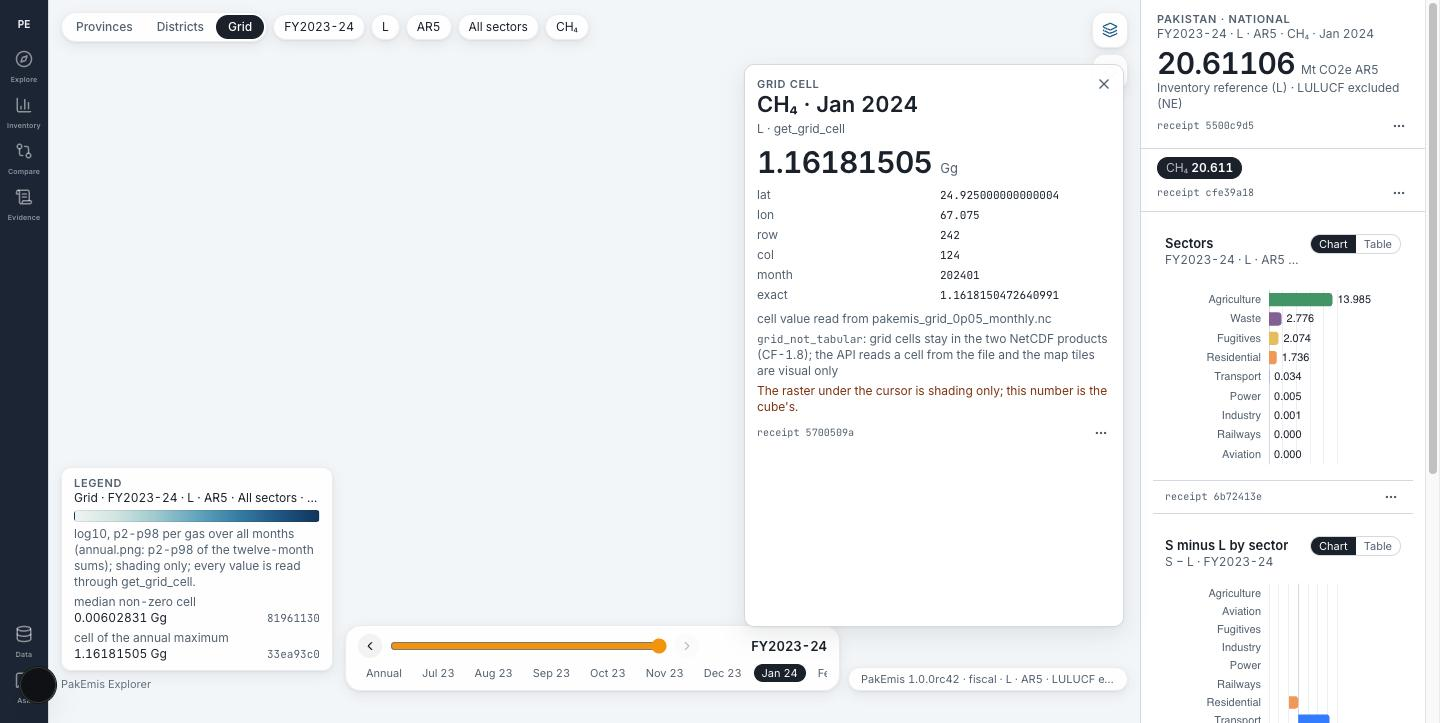
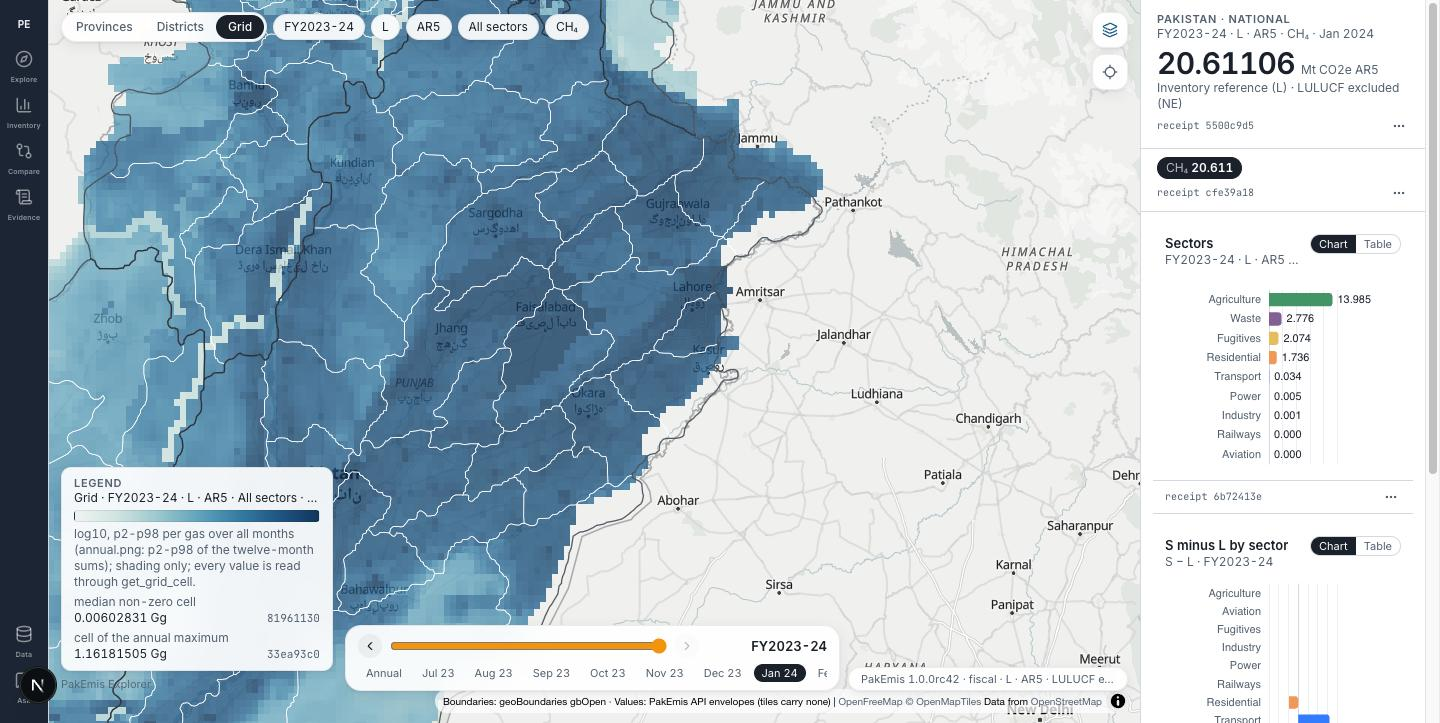
Grid raster shows: TILES.json keys its frames raster/<config>/<gas>/<frame>.png and rasterFile looked them up unprefixed; verified screenshots (adm1 hover, adm2 hatch, AR6 refusal, refusal year, raster, grid cell, district card)

diff --git a/web/src/components/map/tiles.ts b/web/src/components/map/tiles.ts
@@ -27,10 +27,13 @@ export function useBboxes() {
 /** The frame name of a raster file for (config, gas, month|annual) as TILES.json lists it, or null if the builder wrote none. */
 export function rasterFile(info: RasterInfo | undefined, config: string, gas: string, month: string | null): string | null {
   if (!info) return null;
-  const frames = Object.keys(info.files);
+  // TILES.json keys the frames as `raster/<config>/<gas>/<frame>.png` (relative to the tiles
+  // folder); the map builds `${TILES}/raster/<name>`, so the prefix is stripped here.
+  const strip = (f: string) => f.replace(/^raster\//, "");
+  const frames = Object.keys(info.files).map(strip);
   const annual = frames.find((f) => f.startsWith(`${config}/${gas}/`) && !/\/\d{6}\.png$/.test(f));
   const name = month ? `${config}/${gas}/${month}.png` : annual;
-  return name && info.files[name] ? name : null;
+  return name && frames.includes(name) ? name : null;
 }
 
 export function unionBbox(b: Record<string, [number, number, number, number]>): [number, number, number, number] | null {
